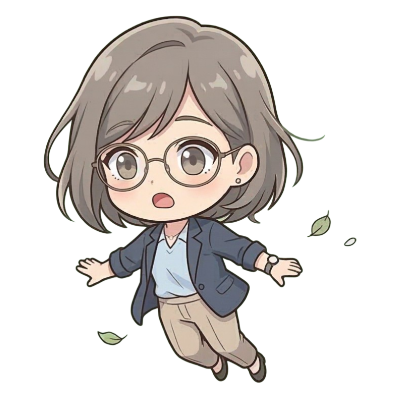
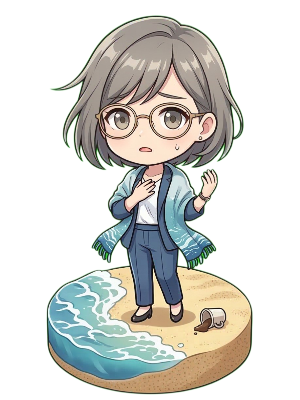
feat: update result desc

diff --git a/src/views/ResultView.vue b/src/views/ResultView.vue
@@ -4,7 +4,12 @@
 -->
 <script setup lang="ts">
 import { storeToRefs } from 'pinia';
+import { computed } from 'vue';
 import { useRouter } from 'vue-router';
+import end1 from '../assets/images/end_1.png';
+import end2 from '../assets/images/end_2.png';
+import end3 from '../assets/images/end_3.png';
+import end4 from '../assets/images/end_4.png';
 import { useAudioStore } from '../stores/audio';
 import { useGameStore } from '../stores/game';
 
@@ -18,13 +23,53 @@ function restart() {
   gameStore.resetGame();
   router.replace('/');
 }
+
+const resultData = computed(() => {
+  const s = score.value;
+  if (s <= 4) {
+    return {
+      message:
+        '你的內心是一片平靜的湖泊。繼續保持目前的步調，每天 5 分鐘正念。',
+      breathingName: '💡 建議練習：腹式呼吸',
+      breathingDesc:
+        '將手輕放在腹部，用鼻子深吸氣，感受肚子像氣球般隆起；接著用嘴巴緩慢吐氣，讓腹部自然凹陷。重複數次，能有效放鬆身心。',
+      image: end1,
+    };
+  }
+  if (s <= 9) {
+    return {
+      message: '有些波浪，但你還能掌舵。建議減少咖啡因，並嘗試 4-7-8 呼吸法。',
+      breathingName: '💡 建議練習：4-7-8 呼吸法',
+      breathingDesc:
+        '用鼻子吸氣 4 秒，憋氣 7 秒，最後用嘴巴緩慢且微噘嘴唇地吐氣 8 秒。這個循環能幫助啟動副交感神經，快速找回平靜。',
+      image: end2,
+    };
+  }
+  if (s <= 14) {
+    return {
+      message: '你似乎迷失了方向。請實行數位排毒，嘗試箱式呼吸來找回主控權。',
+      breathingName: '💡 建議練習：箱式呼吸',
+      breathingDesc:
+        '吸氣 4 秒，憋氣停頓 4 秒，吐氣 4 秒，再憋氣停頓 4 秒。想像氣流在畫一個正方形，能幫助穩定心跳，找回專注力。',
+      image: end3,
+    };
+  }
+  return {
+    message:
+      '風暴已經來臨。請優先處理生理需求，並尋求專業諮詢，適時按下暫停鍵。',
+    breathingName: '💡 應急練習：清涼呼吸法',
+    breathingDesc:
+      '將舌頭捲成 U 型（若無法捲舌可微微張開嘴唇），從嘴巴深吸氣，感受涼爽空氣進入。接著閉上嘴巴由鼻子緩慢吐氣。有助於平復極度焦躁的情緒。',
+    image: end4,
+  };
+});
 </script>
 
 <template>
   <div
-    class="flex-1 flex flex-col items-center justify-center p-8 text-center bg-linear-to-b from-gray-900 to-black text-white h-full relative"
+    class="flex-1 flex flex-col items-center p-8 text-center bg-linear-to-b from-gray-900 to-black text-white min-h-full overflow-y-auto relative"
   >
-    <div class="space-y-6 z-10 w-full relative">
+    <div class="z-10 w-full relative max-w-md mx-auto py-8">
       <h2 class="text-sm tracking-[0.2em] text-white/50 mb-2">
         最終評估
       </h2>
@@ -34,26 +79,32 @@ function restart() {
 
       <div class="w-12 h-px bg-white/20 mx-auto my-6" />
 
+      <!-- 主訊息與呼吸法區塊 -->
       <div
-        class="text-white/70 leading-relaxed text-sm text-left bg-white/5 p-6 rounded-xl border border-white/10 shadow-lg min-h-[120px]"
+        class="text-white/90 leading-relaxed text-sm text-left bg-white/5 p-6 rounded-xl border border-white/10 shadow-lg"
       >
-        <p v-if="score <= 4">
-          你的內心是一片平靜的湖泊。繼續保持目前的步調，每天 5 分鐘正念。
-        </p>
-        <p v-else-if="score <= 9">
-          有些波浪，但你還能掌舵。建議減少咖啡因，並嘗試
-          <strong class="text-white/90">4-7-8 呼吸法</strong>。
-        </p>
-        <p v-else-if="score <= 14">
-          你似乎迷失了方向。請實行數位排毒，嘗試
-          <strong class="text-white/90">箱式呼吸</strong> 來找回主控權。
-        </p>
-        <p v-else>
-          風暴已經來臨。請優先處理生理需求，並尋求專業諮詢，適時按下暫停鍵。
-        </p>
+        <p>{{ resultData.message }}</p>
+
+        <div class="mt-4 pt-4 border-t border-white/10">
+          <h3 class="font-bold text-white mb-2">
+            {{ resultData.breathingName }}
+          </h3>
+          <p class="text-white/70">
+            {{ resultData.breathingDesc }}
+          </p>
+        </div>
       </div>
 
-      <div class="pt-8">
+      <!-- 人物圖片 -->
+      <div class="flex justify-center">
+        <img
+          :src="resultData.image"
+          alt="Character Result"
+          class="max-h-100 object-contain rounded-xl drop-shadow-[0_10px_15px_rgba(255,255,255,0.05)]"
+        >
+      </div>
+
+      <div class="pt-4 pb-10">
         <button
           class="px-8 py-3 bg-white/10 hover:bg-white/20 border border-white/30 rounded-full transition-all duration-300 tracking-widest text-sm transform hover:scale-105"
           @click="restart"

diff --git a/src/App.vue b/src/App.vue
@@ -26,7 +26,10 @@ onMounted(async () => {
   });
 
   // 轉換為完整的 URL 並開始預載
-  const imageUrls = Array.from(images, img => new URL(`./assets/images/${img}`, import.meta.url).href);
+  const imageUrls = Array.from(
+    images,
+    img => new URL(`./assets/images/${img}`, import.meta.url).href,
+  );
 
   try {
     await preloadImages(imageUrls);
@@ -39,7 +42,9 @@ onMounted(async () => {
 
 <template>
   <div class="h-dvh bg-neutral-900 flex justify-center w-full overflow-hidden">
-    <div class="w-full max-w-md bg-black relative shadow-2xl overflow-hidden flex flex-col h-full items-stretch">
+    <div
+      class="w-full max-w-md bg-black relative shadow-2xl overflow-hidden flex flex-col h-full items-stretch"
+    >
       <router-view v-slot="{ Component }">
         <transition name="fade" mode="out-in">
           <component :is="Component" />

diff --git a/src/views/HomeView.vue b/src/views/HomeView.vue
@@ -51,7 +51,7 @@ function startQuiz() {
         </h1>
         <div class="w-16 h-[2px] bg-white/40 mx-auto" />
         <p
-          class="text-white/90 font-medium leading-relaxed text-base max-w-sm mx-auto drop-shadow-md text-shadow-[1px_1px_4px_rgb(0_50_50_/_1.0)]"
+          class="text-white/90 font-medium leading-relaxed text-base max-w-sm mx-auto drop-shadow-md text-shadow-custom"
         >
           你有多久沒有好好放鬆了呢？<br>
           來找回心中的平靜吧！
